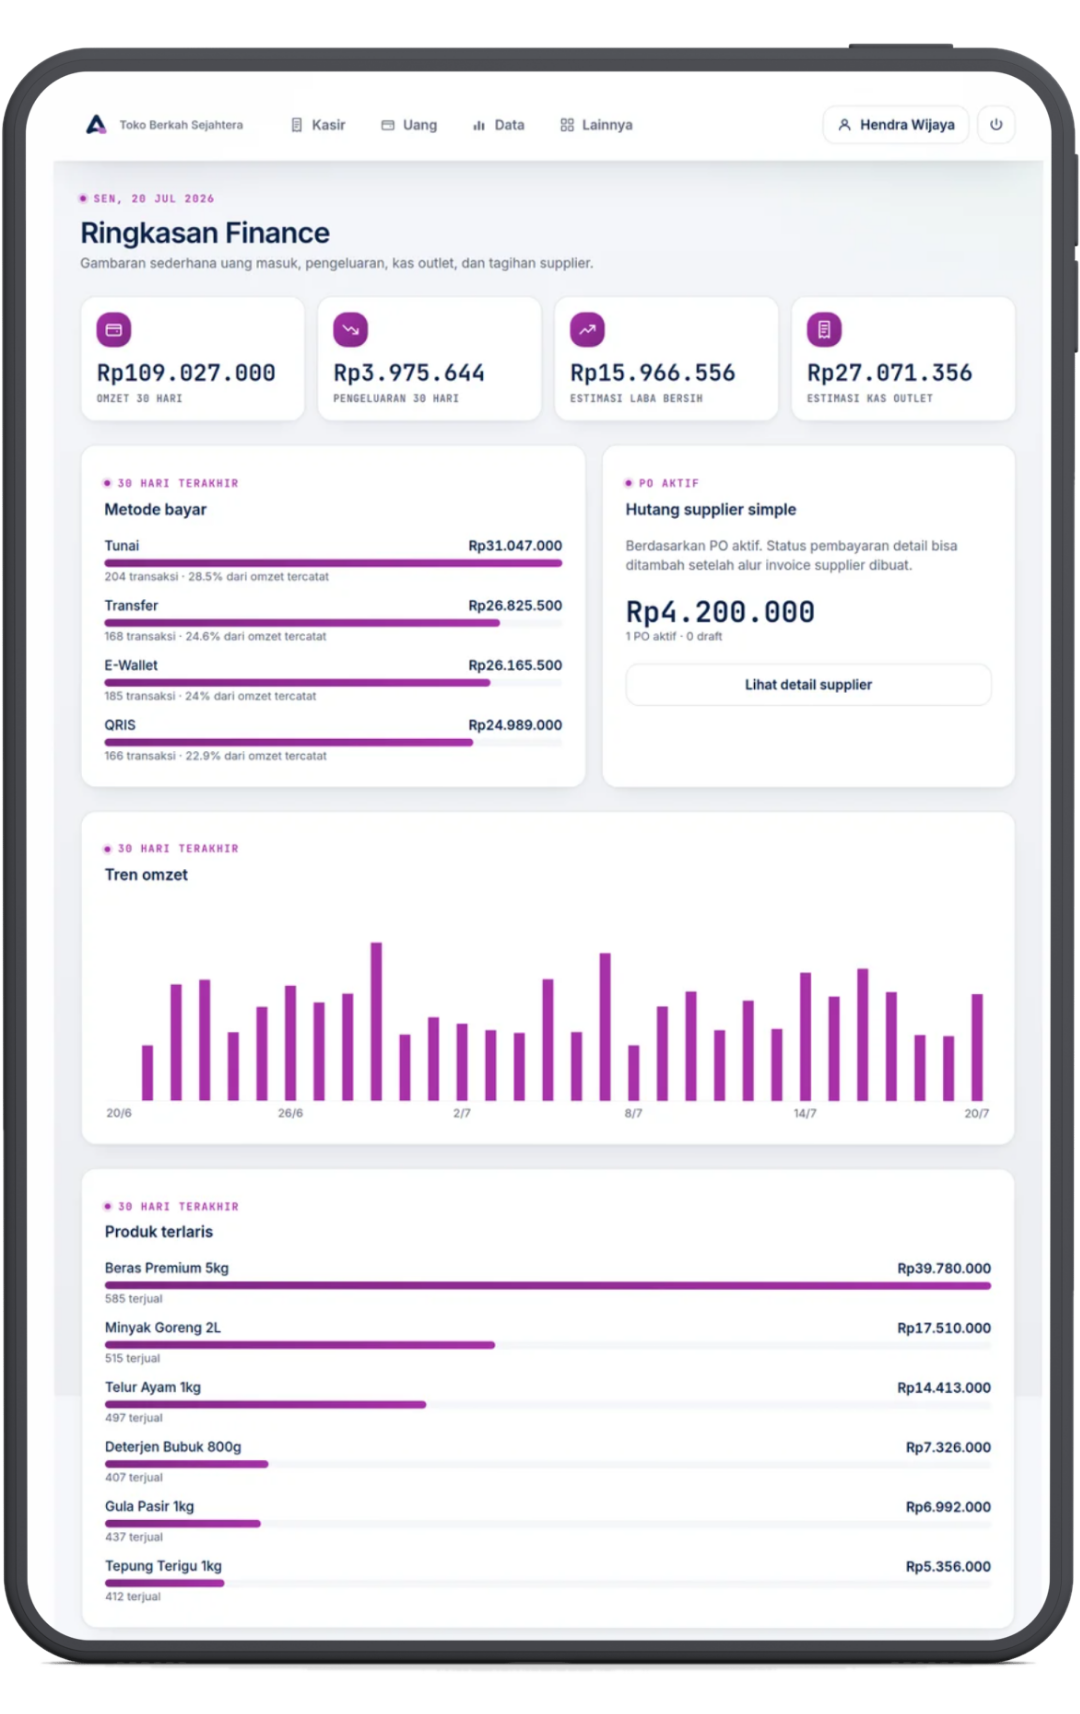
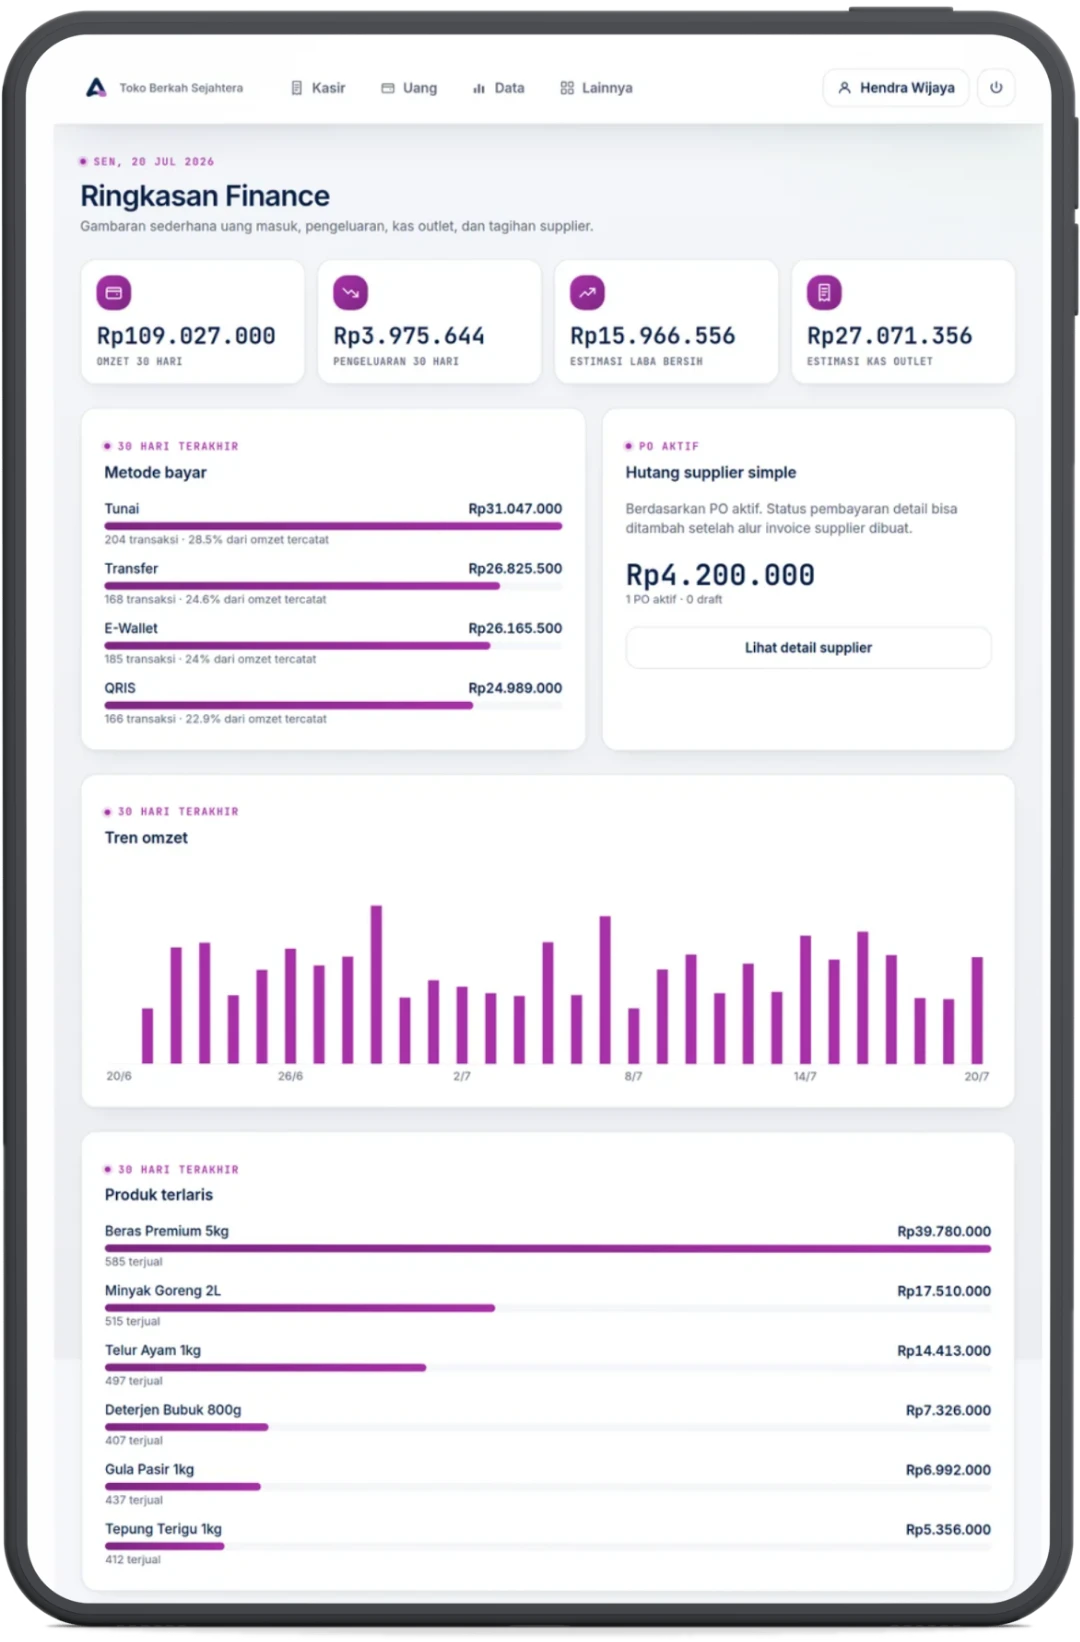
feat(landing): swap in final device mockup photos + real phone photo for mobile section
- Replace laptop/tablet/phone mockups in the #ekosistem device stage with
  the new transparent-background exports; recompute the overlap stage's
  aspect ratio to match their proportions (positions stay the same).
- Replace the CSS PhoneFrame illustration in the mobile-highlight section
  with the actual hand-holding-phone photo, so that section reads as a
  real photo rather than an app mockup.

diff --git a/src/components/landing/mobile-highlight.tsx b/src/components/landing/mobile-highlight.tsx
@@ -1,18 +1,4 @@
-import type { CSSProperties } from "react";
-import { PhoneFrame, PhoneHeader, MetricGrid, ActivityList, StatusFooter } from "./business-showcase/shared";
-import { VERTICALS } from "@/lib/verticals";
-
-// Nggak terikat ke satu vertikal (section ini generik, bukan tab per-industri),
-// jadi ambil satu palet tetap (teal Toko) buat --showcase-* yang dipakai shared
-// phone components — biar konsisten sama BusinessShowcase di bawahnya tanpa
-// duplikasi warna hardcoded.
-const theme = VERTICALS.find((v) => v.key === "toko")!.theme;
-const phoneThemeStyle = {
-  "--showcase-primary": theme.primary,
-  "--showcase-deep": theme.deep,
-  "--showcase-soft": theme.soft,
-  "--showcase-bg": theme.background,
-} as CSSProperties;
+import Image from "next/image";
 
 const POINTS = [
   {
@@ -52,29 +38,16 @@ export function MobileHighlight() {
 
         <div className="mobile-highlight-visual reveal">
           <div className="mobile-highlight-glow" aria-hidden="true" />
-          <div className="mobile-highlight-phone-wrap" style={phoneThemeStyle}>
-            <PhoneFrame label="Altora di HP">
-              <PhoneHeader title="Toko Kamu" subtitle="Live dari HP" />
-              <MetricGrid
-                metrics={[
-                  { label: "Omzet hari ini", value: "Rp2,4jt" },
-                  { label: "Transaksi", value: "47" },
-                  { label: "Stok menipis", value: "3", tone: "warning" },
-                  { label: "Karyawan aktif", value: "4" },
-                ]}
-              />
-              <ActivityList
-                title="Transaksi masuk"
-                activities={[
-                  { title: "Kopi Susu x2", detail: "Bayar QRIS", status: "Baru saja", tone: "info" },
-                  { title: "Meja 04", detail: "QRIS · Rp52.000", status: "Lunas", tone: "success" },
-                  { title: "Cuti Dewi", detail: "Menunggu approve", status: "Cek", tone: "warning" },
-                  { title: "Beras Premium 5kg", detail: "Sisa 4 · minimum 10", status: "Restock", tone: "warning" },
-                  { title: "Shift sore ditutup", detail: "Kas cocok, tanpa selisih", status: "10 menit lalu", tone: "success" },
-                ]}
-              />
-              <StatusFooter />
-            </PhoneFrame>
+          <div className="mobile-highlight-photo-wrap">
+            <Image
+              src="/landing-previews/mobile-highlight-hand.png"
+              alt="Pegang HP sambil pantau Ringkasan Finance Altora"
+              width={1040}
+              height={1670}
+              sizes="(max-width: 900px) 70vw, 34vw"
+              style={{ width: "100%", height: "auto" }}
+              priority
+            />
           </div>
         </div>
       </div>

diff --git a/src/app/landing.css b/src/app/landing.css
@@ -1081,14 +1081,17 @@ html { scroll-behavior: auto; }
     filter: blur(2px); pointer-events: none;
   }
 
-/* Reuse .bs-phone/.bs-phone-screen/.bs-phone-island (proporsi cqw sudah
-   diukur presisi dari referensi device asli) sebagai hero standalone,
-   bukan di dalam .bs-stage — makanya sizing container-nya didefinisikan
-   sendiri di sini, bukan lewat .bs-phone-wrap. */
-.altora-landing .mobile-highlight-phone-wrap {
-    position: relative; width: min(300px, 78vw); aspect-ratio: 43 / 89;
-    container-type: inline-size;
+/* Foto tangan pegang HP asli (background sudah transparan dari tool desain),
+   bukan ilustrasi CSS — biar section ini terasa "nyata dipegang", bukan
+   mockup layar doang. */
+.altora-landing .mobile-highlight-photo-wrap {
+    position: relative; width: min(340px, 78vw);
     animation: bs-float 6.8s ease-in-out infinite;
+  }
+
+.altora-landing .mobile-highlight-photo-wrap img {
+    display: block; width: 100%; height: auto;
+    filter: drop-shadow(0 24px 32px rgba(10, 31, 68, 0.18));
   }
 
 @media (max-width: 900px) {
@@ -1097,7 +1100,7 @@ html { scroll-behavior: auto; }
 }
 
 @media (prefers-reduced-motion: reduce) {
-  .altora-landing .mobile-highlight-phone-wrap { animation: none; }
+  .altora-landing .mobile-highlight-photo-wrap { animation: none; }
 }
 
 
@@ -1158,12 +1161,12 @@ html { scroll-behavior: auto; }
 
 
 /* ---- Panggung foto device asli (ganti .bs-stage ilustrasi CSS) ----
-   Background foto udah dihapus (flood-fill dari sudut gambar), jadi bisa
-   numpuk kayak komposisi lama tanpa keliatan kotak putih. Posisi %
-   niru proporsi .bs-stage lama, disesuaikan ke aspect-ratio foto asli:
-   stage 100:70.53 (laptop 78.1% lebar, tablet nyusul di kanan-atas,
-   phone di kanan-bawah, paling depan). */
-.altora-landing .device-photo-stage { position: relative; width: 100%; aspect-ratio: 100 / 70.53; }
+   Foto sudah transparan (export langsung dari tool desain, bukan hasil
+   flood-fill), jadi bisa numpuk kayak komposisi lama tanpa keliatan kotak
+   putih. Posisi % niru proporsi .bs-stage lama, disesuaikan ke aspect-ratio
+   foto asli: stage 100:72.56 (laptop 78.1% lebar, tablet nyusul di
+   kanan-atas, phone di kanan-bawah, paling depan). */
+.altora-landing .device-photo-stage { position: relative; width: 100%; aspect-ratio: 100 / 72.56; }
 
 .altora-landing .device-photo-laptop,
 .altora-landing .device-photo-tablet,

diff --git a/src/components/landing/business-showcase/device-stage-photo.tsx b/src/components/landing/business-showcase/device-stage-photo.tsx
@@ -12,13 +12,13 @@ export function DeviceStagePhoto() {
   return (
     <div className="device-photo-stage">
       <div className="device-photo-laptop">
-        <Image src="/landing-previews/showcase-laptop.png" alt="Tampilan Altora di laptop" width={1862} height={1080} sizes="(max-width: 860px) 100vw, 60vw" style={{ width: "100%", height: "auto" }} />
+        <Image src="/landing-previews/showcase-laptop.png" alt="Tampilan Altora di laptop" width={1788} height={1069} sizes="(max-width: 860px) 100vw, 60vw" style={{ width: "100%", height: "auto" }} />
       </div>
       <div className="device-photo-tablet">
-        <Image src="/landing-previews/showcase-tablet.png" alt="Tampilan Altora di tablet" width={1080} height={1714} sizes="(max-width: 860px) 30vw, 18vw" style={{ width: "100%", height: "auto" }} />
+        <Image src="/landing-previews/showcase-tablet.png" alt="Tampilan Altora di tablet" width={1080} height={1642} sizes="(max-width: 860px) 30vw, 18vw" style={{ width: "100%", height: "auto" }} />
       </div>
       <div className="device-photo-phone">
-        <Image src="/landing-previews/showcase-phone.png" alt="Tampilan Altora di HP" width={1016} height={1920} sizes="(max-width: 860px) 18vw, 10vw" style={{ width: "100%", height: "auto" }} />
+        <Image src="/landing-previews/showcase-phone.png" alt="Tampilan Altora di HP" width={942} height={1920} sizes="(max-width: 860px) 18vw, 10vw" style={{ width: "100%", height: "auto" }} />
       </div>
     </div>
   );